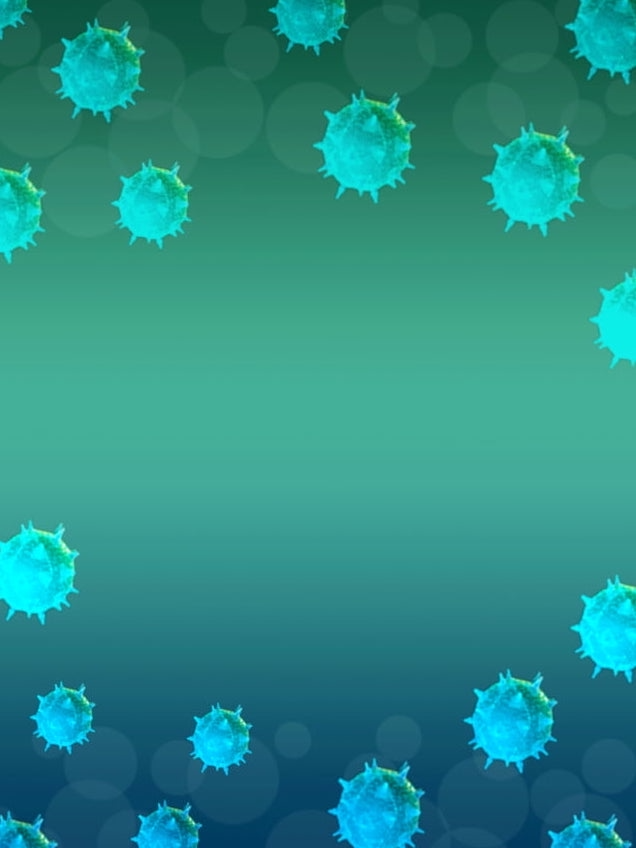
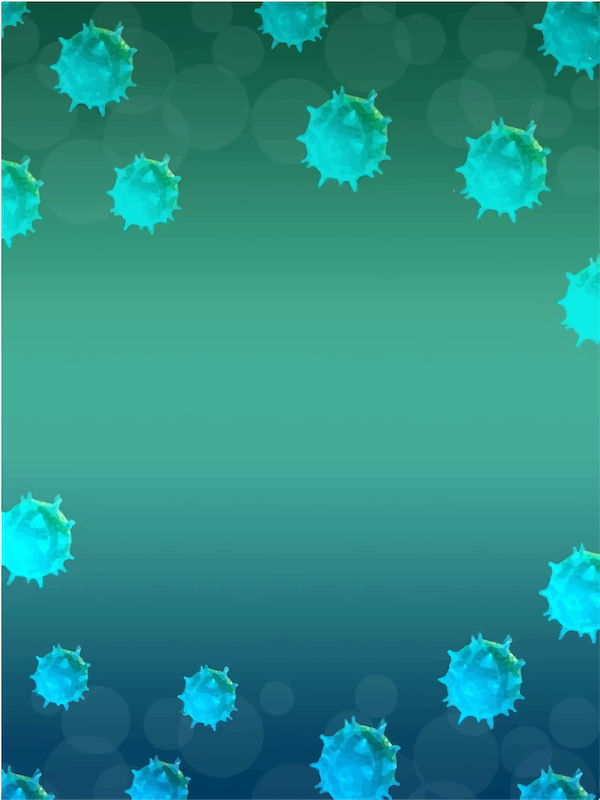
add various corona

diff --git a/main.py b/main.py
@@ -34,6 +34,16 @@ class Player(pygame.sprite.Sprite):
         self.speed_x = 0
         self.speed = 8
         self.last_bullet_shot = pygame.time.get_ticks()
+        self.health = 100
+        self.lives = 2
+        self.hide_ship_timer = pygame.time.get_ticks()
+        self.ship_is_hidden = False
+
+    def hide_ship(self):
+        self.hide_ship_timer = pygame.time.get_ticks()
+        self.ship_is_hidden = True
+        self.rect.centerx = WIDTH/2
+        self.rect.y = -100
     def shoot_bullet(self):
         current_time  = pygame.time.get_ticks()
         if current_time - self.last_bullet_shot > 100:
@@ -59,13 +69,19 @@ class Player(pygame.sprite.Sprite):
         if keystate[pygame.K_SPACE]:
             self.shoot_bullet()
     def update(self):
+        if self.ship_is_hidden and pygame.time.get_ticks() - self.hide_ship_timer > 1500:
+            self.ship_is_hidden = False
+            self.rect.centerx = WIDTH/2
+            self.rect.bottom = HEIGHT-10
         self.movement()
         self.boundary()
 
 class Corona(pygame.sprite.Sprite):
     def __init__(self):
         pygame.sprite.Sprite.__init__(self)
-        self.original_image = random.choice((corona_img))
+        imsize = random.randrange(3,8)*16
+        self.original_image = pygame.transform.scale(random.choice((corona_img)),(imsize,imsize))
+        #self.image = pygame.transform.scale(bullet_img, (10, 20))
         self.image = self.original_image.copy()
         self.rect = self.image.get_rect()
         self.radius = int(self.rect.width * .9 / 2)
@@ -161,17 +177,18 @@ corona_img = []
 small_explosion = []
 large_explosion = []
 ship_explosion = []
-# for i in range(1,6):
-#     img = get_image("virus{}.png".format(i))
-#     corona_img.append(img)
 for i in range(1,6):
-    img = get_image("player1.png",WHITE)
+    img = get_image("virus{}.png".format(i),WHITE)
     corona_img.append(img)
+
 
 for i in range(1,7):
     img = get_image("ex{}.png".format(i),WHITE)
     large_explosion.append(pygame.transform.scale(img,(80,80)))
-    small_explosion.append(pygame.transform.scale(img,(35,35)))
+    small_explosion.append(pygame.transform.scale(img, (40, 40)))
+for i in range(1,6):
+    img = get_image("se{}.png".format(i),WHITE)
+    ship_explosion.append(pygame.transform.scale(img, (80, 80)))
 #player_img =
 #player_img = get_image("playerShip.png")
 #Game sprites
@@ -197,10 +214,17 @@ while running:
     all_sprites.update()
 
     #checking ship collisions
-    corona_collision = pygame.sprite.spritecollide(player,all_corona,False,pygame.sprite.collide_circle)
-    if corona_collision:
-        running = False
-
+    corona_collision = pygame.sprite.spritecollide(player,all_corona,True,pygame.sprite.collide_circle)
+    for hit in  corona_collision:
+        expl = Explosion(small_explosion,player.rect.center)
+        all_sprites.add(expl)
+        player.health -= int(hit.radius*0.2)
+        spawn_new_corona()
+        if player.health <= 0:
+            final_explosion = Explosion(ship_explosion,player.rect.center)
+            all_sprites.add(final_explosion)
+            player.hide_ship()
+            #running = False
     #checking bullet collision
     bullet_collision = pygame.sprite.groupcollide(all_corona,all_bullets,True,True)
     for collision in bullet_collision:
@@ -212,6 +236,7 @@ while running:
     screen.blit(background,background_rect)
     all_sprites.draw(screen)
     message_to_screen("Score: "+str(score), WHITE, 24, WIDTH/2, 10)
+    message_to_screen("Health: "+str(player.health),WHITE,24,50,10)
     #Update the display
     pygame.display.update()
 pygame.quit()
